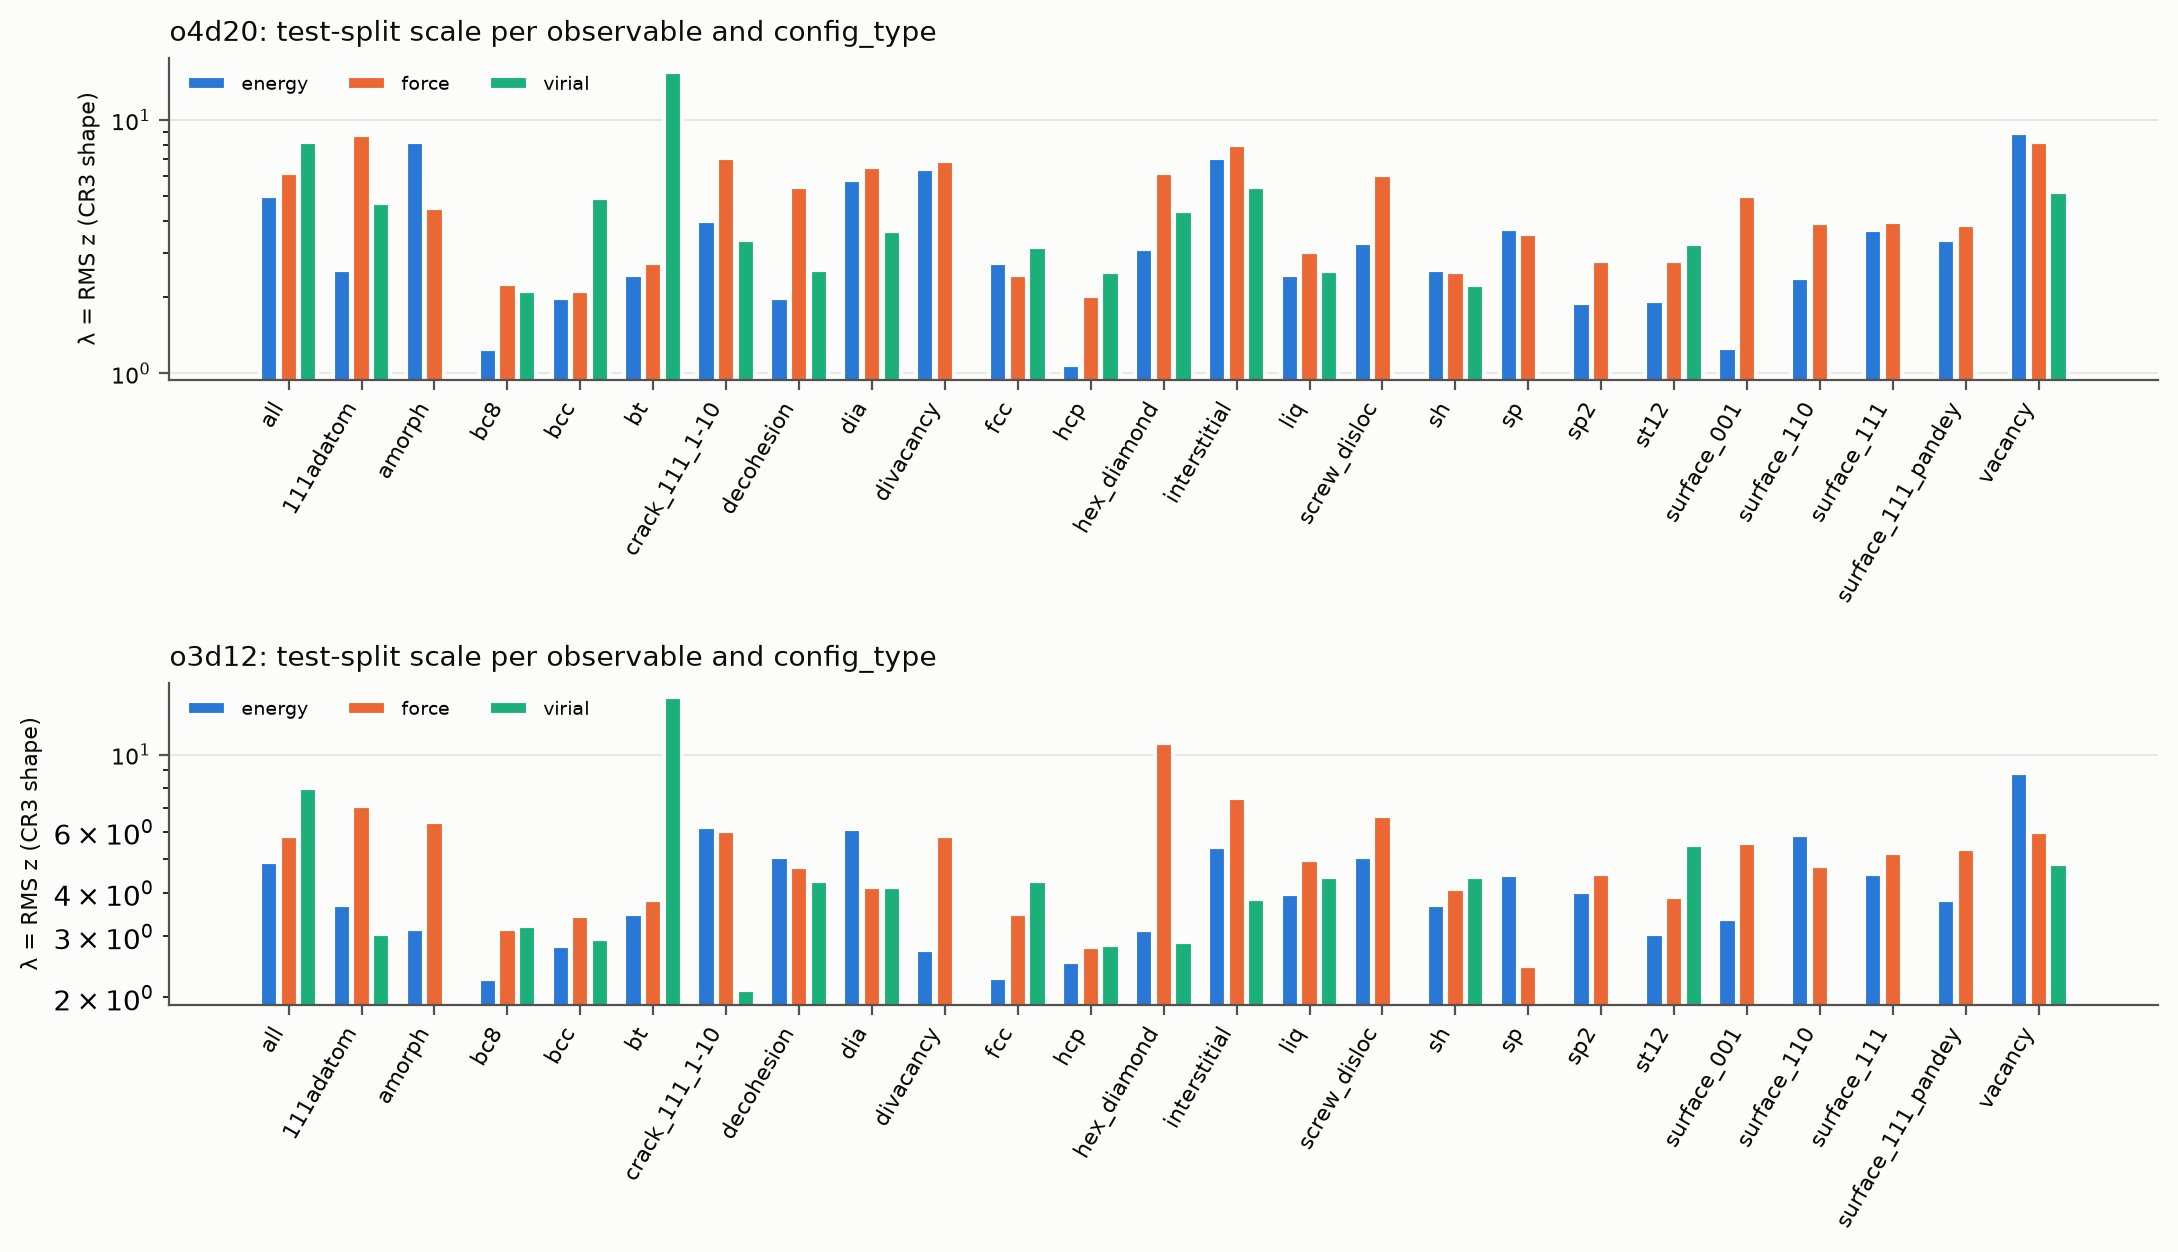
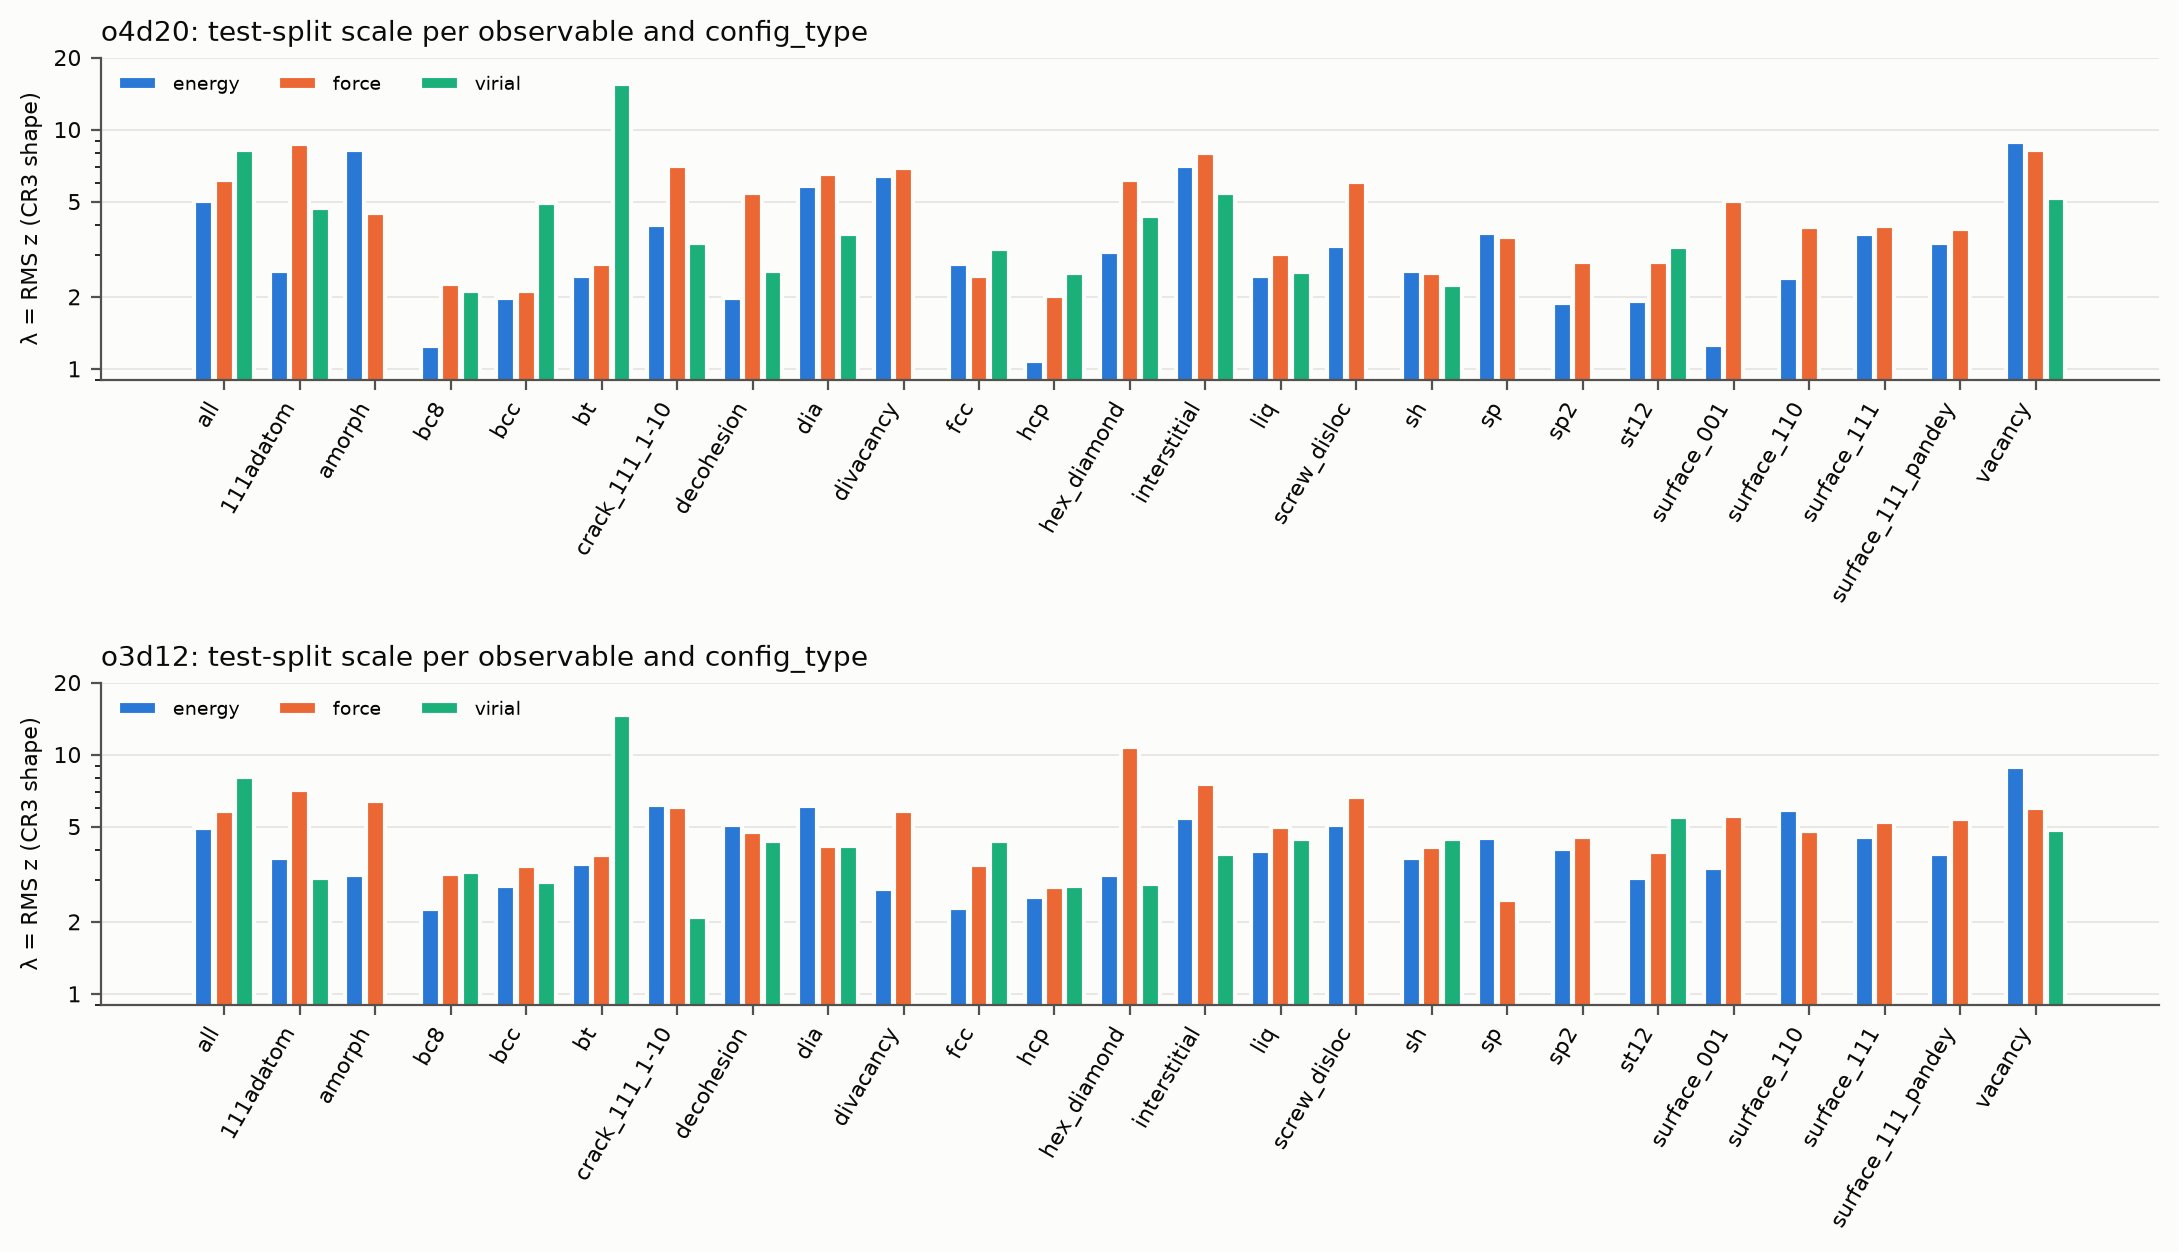
docs(si-qoi-uq): baselines section rewritten as prose; scale-diagnostics figure moved to the global-scale section

diff --git a/bench/si_qoi_uq/artifact/paper.py b/bench/si_qoi_uq/artifact/paper.py
@@ -368,8 +368,7 @@ Gaussian (\(\varrho_g=1\) for Gaussian errors). A covariate-shift diagnostic
 but does not rescale σ.</p>
 <p><b>Why the propagation does not use these scales.</b> λ<sub>g</sub> and q<sub>g</sub> temper force <em>outputs</em> atom by
 atom. They do not define a covariance in θ, and a QoI depends on every atom and on relaxed geometries. Propagation therefore uses one
-global λ (Section 3.3). The groups also enter this study as a diagnostic breakdown of the test-split scores (Figure 5), and
-Section 3.2 tests these per-atom force uncertainties directly. Energy and virial uncertainties use the unscaled posterior
+global λ (Section 3.3). Section 3.2 tests these per-atom force uncertainties directly. Energy and virial uncertainties use the unscaled posterior
 variance.</p>
 <h3>2.6 Baselines</h3>
 <p>We compare the CR3 propagation with three baselines. Each changes one ingredient, the shape of the covariance or the way its
@@ -407,6 +406,12 @@ and V equally within a configuration and configurations equally. As in Section 3
 (\(\lVert L^{\mathsf T}b\rVert\lt 10^{-3}\) of the median of their kind) are dropped. No QoI, and no DFT QoI value, enters any scale.
 The headline uses \(\lambda_F\): forces are most of the training rows, and they are the quantity calibrated per atom in Section 3.2.
 In the Gaussian reading of Figure 7, \(\lambda_F\) is the global line, against the per-group \(\lambda_g\).</p>
+<p>A single scale is a compromise. Figure 5 breaks the test-split scale down by configuration type: it ranges from about 1 to 15
+across types and observables, largest for the virials of the bt cells, the vacancy and interstitial cells and, for o3d12, the
+hexagonal-diamond forces, and smallest for the energies of the crystal phases. The ratios of the global scales (Table 2) show the same at the level of observables.</p>
+<figure><img src="fig5_scale_diagnostics.png" alt="Test-split scale per observable and configuration type, both models"><figcaption>Figure 5.
+Test-split scale λ = RMS z with the CR3 shape, per observable (energy, force, virial) and GAP-18 configuration type, for both models
+("all": the global λ<sub>E</sub>, λ<sub>F</sub>, λ<sub>V</sub> of Table 2). Missing bars: types without that observable.</figcaption></figure>
 <div class="wrap"><table><caption>Table 2. Test-split scales (CR3 shape).</caption>
 <thead><tr><th>model</th><th>λ<sub>E</sub></th><th>λ<sub>F</sub></th><th>λ<sub>V</sub></th><th>λ<sub>pool</sub></th><th>λ<sub>V</sub>/λ<sub>F</sub></th><th>λ<sub>E</sub>/λ<sub>F</sub></th></tr></thead>
 <tbody>""" + lam_rows + r"""</tbody></table></div>
@@ -525,6 +530,9 @@ for m, fs in phys.items():
                  f"rescaled σ; the phase energies reach {min(phase):.1f}–{max(phase):.1f}× it, a genuine nonlinearity (phases relax into other "
                  "structures at λ<sub>F</sub>).</p>")
 pops = pw.get(("o3d12", "pops"))
+pops_sd = f(pops['sd_E_meV_per_atom'] if pops else None, 0)
+b3txt = " and ".join(f"{int(float(b3[m]['k95']))}/{int(float(b3[m]['n']))} ({m})" for m in models if b3[m])
+b1txt = " and ".join(f"{int(float(b1[m]['k95']))}/{int(float(b1[m]['n']))} ({m})" for m in models if b1[m])
 pops_w = "; ".join(f"{m}: 5 % cut {pw[(m, 'popslev5')]['sd_E_meV_per_atom']:.3g}, 50 % cut {pw[(m, 'popslev50')]['sd_E_meV_per_atom']:.3g}, "
                    f"CR3 {pw[(m, 'cr3')]['sd_E_meV_per_atom']:.2f} / {pw[(m, 'cr3lamF')]['sd_E_meV_per_atom']:.2f}"
                    for m in ("o3d12", "o4d20") if all((m, k) in pw for k in ("popslev5", "popslev50", "cr3")))
@@ -574,17 +582,21 @@ beyond S; λ<sub>V</sub> passes.]</p>
 {phys_txt}
 <figure><img src="fig4_elastic_ellipses.png" alt="Elastic constant covariance ellipses, two routes"><figcaption>Figure 4. Elastic constants: stress and energy routes.</figcaption></figure>
 <h3>3.7 Baselines</h3>
-<p>B2 with ace-jax defaults: the hypercube bounds come from low-leverage rows, and members spread the bulk energy (o3d12) by
-{f(pops['sd_E_meV_per_atom'] if pops else None, 0)} meV/atom; almost every relaxation fails. Restricting the members to rows
-at or above the median leverage gives physical members for both models, but no consistent width. The blow-up comes from a handful
-of near-zero-leverage rows. Rejecting unphysical members cannot remove it: every full-box axis spans 10<sup>6</sup>–10<sup>7</sup> eV/atom of
-bulk energy, so no member of either model is within 5 eV/atom of the mean on rattled diamond cells (0/200). A sweep of the
-leverage cut (dropping the lowest 1, 2, 5, 10, 25 or 50 % of rows; members screened on three rattled diamond cells) shows that
-dropping 1 % already gives physical members, and that the o4d20 width hardly depends on the cut (median worst-cell |ΔE|
-0.001–0.003 eV/atom, against 0.017 for CR3 × λ<sub>F</sub>). Committees were run at the 5 % cut, which keeps closest to POPS's
-default of every row, and at 50 %. Bulk-energy spread per member set (meV/atom), against the CR3 members at λ = 1 and at
-λ<sub>F</sub>: {pops_w}. B2 covers {pops_cov}. POPS has no calibration step, so its width follows whatever the support selection gives.</p>
-<figure><img src="fig5_scale_diagnostics.png" alt="Scale per observable and config type"><figcaption>Figure 5. λ per observable type and config_type.</figcaption></figure>""", "drafted", level=3)
+<p>The three baselines of Section 2.6 each fall short in a different way (Figure 1, Figure 1b and Table 3). B3, the CR3 shape without
+calibration, covers only {b3txt} of the QoIs at 95 %: the shape alone is several times too narrow, as the test-split scales of
+Section 3.3 already show. B1, the posterior with one conformal scale, covers {b1txt}. It has a calibrated overall size but the wrong
+shape, so it is too wide for some QoIs and too narrow for others, and it fails the joint test outright (Table 4).</p>
+<p>B2, POPS, needed more care. With ace-jax's default, which builds the hypercube from every training row, the members are
+unphysical: the bounds are set by a handful of rows with near-zero leverage, whose corrections are unbounded, and the members spread
+the bulk energy of o3d12 by {pops_sd} meV/atom, so that almost every relaxation fails. Rejecting unphysical members cannot rescue
+this. Every axis of the full box spans 10<sup>6</sup>–10<sup>7</sup> eV/atom of bulk energy, and no member of either model comes within
+5 eV/atom of the mean on rattled diamond cells (0 of 200).</p>
+<p>Dropping the lowest-leverage rows from the box fixes it. A sweep of the cut (the lowest 1, 2, 5, 10, 25 or 50 % of rows, members
+screened on three rattled diamond cells) shows that dropping 1 % already gives physical members. The width then hardly depends on the
+cut for o4d20: the median worst-cell energy change is 0.001–0.003 eV/atom, against 0.017 for CR3 × λ<sub>F</sub>. We ran committees at
+the 5 % cut, the closest to POPS's own default, and at 50 % (Table 3b). Their bulk-energy spreads, against the CR3 members at λ = 1 and at
+λ<sub>F</sub>, are {pops_w} meV/atom. B2 covers {pops_cov}. POPS has no calibration step, so its width is whatever the choice of support rows
+gives: too narrow for o4d20, and of roughly the right size but in the wrong places for o3d12.</p>""", "drafted", level=3)
 
 trend_rows = ""
 for m in ("o3d12", "o4d20"):

diff --git a/bench/si_qoi_uq/figures.py b/bench/si_qoi_uq/figures.py
@@ -182,6 +182,9 @@ def scales_fig(results, out, models):
             ax.bar(np.arange(len(cats)) + (j - 1) * 0.27, v, width=0.25, color=CAT[j], edgecolor=SURFACE,
                    linewidth=1.5, label={"E": "energy", "F": "force", "V": "virial"}[t])
         ax.set_yscale("log")
+        from matplotlib.ticker import FuncFormatter, NullFormatter
+        ax.yaxis.set_major_formatter(FuncFormatter(lambda v, _: f"{v:g}")); ax.yaxis.set_minor_formatter(NullFormatter())
+        ax.set_yticks([1, 2, 5, 10, 20]); ax.set_ylim(0.9, 20)
         ax.set_xticks(range(len(cats)), cats, rotation=60, ha="right")
         ax.set_ylabel("λ = RMS z (CR3 shape)", color=INK, fontsize=8)
         ax.set_title(f"{m}: test-split scale per observable and config_type", color=INK, fontsize=10, loc="left")
